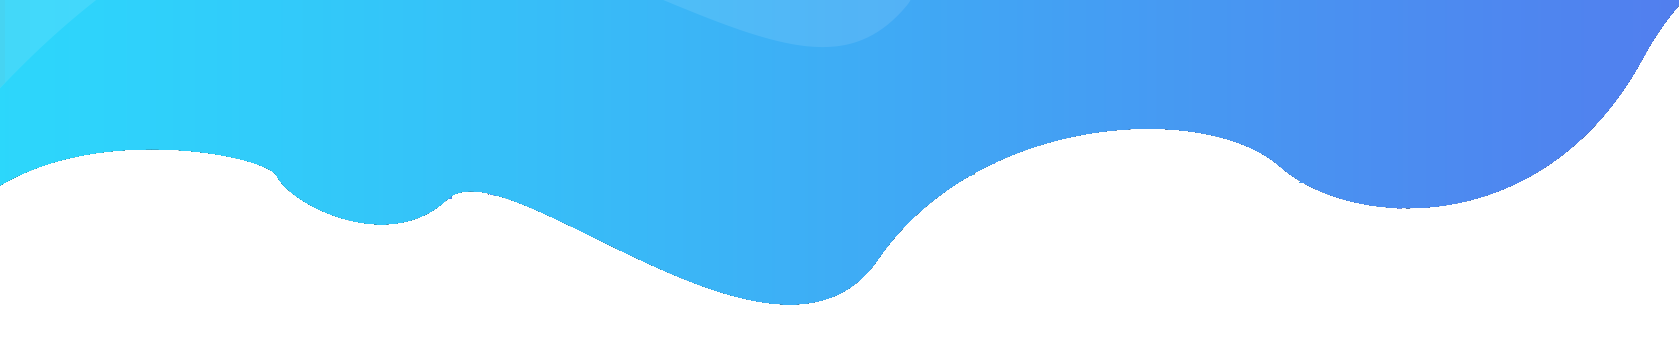
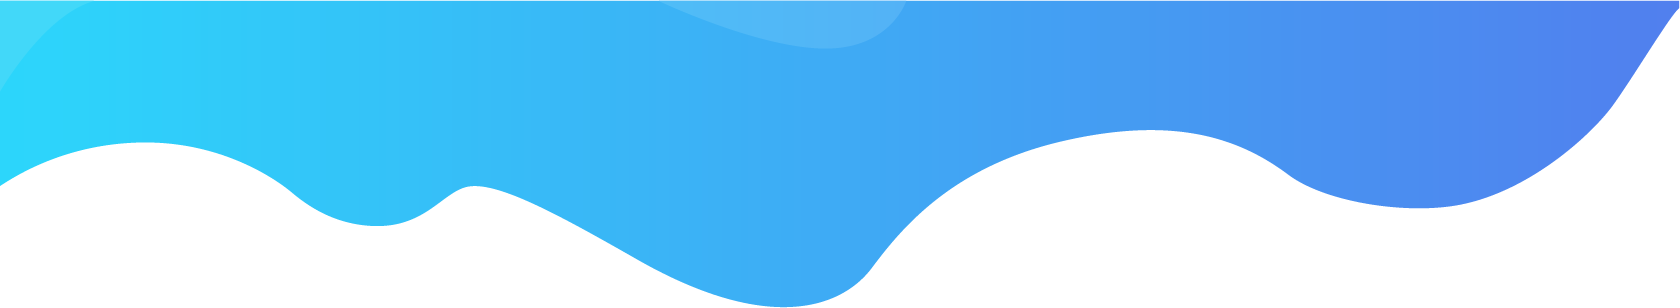
Fixed some bugs.

Changed region(s): [[0.0, 0.3214, 0.9601, 1.0], [0.0, 0.0, 1.0, 0.0877], [0.9601, 0.2922, 0.9911, 0.3214]]

diff --git a/Notiflex/wwwroot/vendors/svg/charts.js b/Notiflex/wwwroot/vendors/svg/charts.js
@@ -8,7 +8,7 @@ function ChartData(cityName,
     tempData1, tempData2, tempData3, tempData4, tempData5, tempData6, tempData7,
     cloudsData1, cloudsData2, cloudsData3, cloudsData4, cloudsData5, cloudsData6, cloudsData7,
     pressureData1, pressureData2, pressureData3, pressureData4, pressureData5, pressureData6, pressureData7,
-    humidity) {
+    humidityData1, humidityData2, humidityData3, humidityData4, humidityData5, humidityData6, humidityData7) {
 
     // eslint-disable-next-line no-unused-vars
     const lineChart = new Chart(document.getElementById('canvas-1'), {
@@ -17,9 +17,9 @@ function ChartData(cityName,
             labels: [timeRange1, timeRange2, timeRange3, timeRange4, timeRange5, timeRange6, timeRange7],
             datasets: [{
                 label: cityName,
-                backgroundColor: 'rgba(64, 45, 170, 0.2)',
-                borderColor: 'rgba(64, 45, 170, 1)',
-                pointBackgroundColor: 'rgba(64, 45, 170, 1)',
+                backgroundColor: 'rgba(37, 97, 221, 0.2)',
+                borderColor: 'rgba(37, 97, 221, 1)',
+                pointBackgroundColor: 'rgba(37, 97, 221, 1)',
                 pointBorderColor: '#fff',
                 data: [tempData1, tempData2, tempData3, tempData4, tempData5, tempData6, tempData7]
             }]
@@ -48,11 +48,29 @@ function ChartData(cityName,
         }
     });
 
+    const hubidityChart = new Chart(document.getElementById('canvas-3'), {
+        type: 'bar',
+        data: {
+            labels: [timeRange1, timeRange2, timeRange3, timeRange4, timeRange5, timeRange6, timeRange7],
+            datasets: [{
+                label: cityName,
+                backgroundColor: 'rgba(143, 193, 246, 0.5)',
+                borderColor: 'rgba(143, 193, 246, 0.8)',
+                highlightFill: 'rgba(143, 193, 246, 0.75)',
+                highlightStroke: 'rgba(143, 193, 246, 1)',
+                data: [humidityData1, humidityData2, humidityData3, humidityData4, humidityData5, humidityData6, humidityData7]
+            }]
+        },
+        options: {
+            responsive: true
+        }
+    });
+/*
     // eslint-disable-next-line no-unused-vars
-    const doughnutChart = new Chart(document.getElementById('canvas-3'), {
+    const doughnutChart = new Chart(document.getElementById('canvas-6'), {
         type: 'doughnut',
         data: {
-            labels: ['Humidity', '%'],
+            labels: ['Humidity %', ' '],
             datasets: [{
                 data: [humidity, 100 - humidity],
                 backgroundColor: ['#402DAA', '#4d4d4d'],
@@ -62,10 +80,10 @@ function ChartData(cityName,
         options: {
             responsive: true
         }
-    });
+    });*/
 
     // eslint-disable-next-line no-unused-vars
-    const linePressureChart = new Chart(document.getElementById('canvas-10'), {
+    const linePressureChart = new Chart(document.getElementById('canvas-4'), {
         type: 'line',
         data: {
             labels: [timeRange1, timeRange2, timeRange3, timeRange4, timeRange5, timeRange6, timeRange7],
@@ -85,7 +103,7 @@ function ChartData(cityName,
 }
 
 
-
+/*
 // eslint-disable-next-line no-unused-vars
 const radarChart = new Chart(document.getElementById('canvas-4'), {
   type: 'radar',
@@ -146,4 +164,4 @@ const polarAreaChart = new Chart(document.getElementById('canvas-6'), {
     responsive: true
   }
 });
-//# sourceMappingURL=charts.js.map
+//# sourceMappingURL=charts.js.map*/

diff --git a/Notiflex/wwwroot/css/dashboard/maindashboard.css b/Notiflex/wwwroot/css/dashboard/maindashboard.css
@@ -2,24 +2,31 @@
 	background-image: url(../../images/dashboardbackground3.png);
 	width: 100%;
 	background-position: center top;
-	background-size: 100% 400px;
+	margin-top: -1px;
+	background-size: 150% 300px;
 	background-repeat: no-repeat;
+}
+
+@media (max-width: 900px) {
+	#layoutWrapper {
+		background-size: 150% 250px;
+	}
 }
 
 @media (max-width: 767px) {
 	#layoutWrapper {
-		background-size: 200% 400px;
+		background-size: 200% 250px;
 	}
 }
 
 @media (max-width: 576px) {
 	#layoutWrapper {
-		background-size: 300% 300px;
+		background-size: 300% 200px;
 	}
 }
 
 @media (max-width: 400px) {
 	#layoutWrapper {
-		background-size: 300% 300px;
+		background-size: 500% 250px;
 	}
 }

diff --git a/Notiflex/wwwroot/css/triggers/createtrigger.css b/Notiflex/wwwroot/css/triggers/createtrigger.css
@@ -50,7 +50,38 @@
     list-style-type: none;
 }
 
+.no-tirgger-img {
+    width: 400px;
+    height: auto
+}
+
+.no-trigger-ctr {
+    display: block;
+    margin-top: 100px;
+}
+
+.no-trigger-box {
+    text-align: center;
+    display: block;
+    font-size: 25px;
+}
+
+.create-trigger {
+    color: rgb(77, 137, 240);
+    text-decoration: none;
+}
+
+    .create-trigger:hover {
+        color: rgb(77, 137, 240);
+        text-decoration: underline;
+    }
+
 @media (max-width: 767px) {
+    .no-tirgger-img {
+        width: 300px;
+        height: auto
+    }
+
     .inpt-box {
         width: 500px;
         padding: 10px;

diff --git a/Notiflex/Areas/Main/Controllers/DashboardController.cs b/Notiflex/Areas/Main/Controllers/DashboardController.cs
@@ -76,7 +76,22 @@ namespace Notiflex.Areas.Main.Controllers
             {
                 throw new ArgumentException("UserId null.");
             }
-            List<WeatherCardViewModel> model = _mapper.Map<List<WeatherCardViewModel>>(await _modelConfigurer.ConfigureForecastReport(value ?? string.Empty));
+
+            var user = await _accountService.GetUserData(userId ?? string.Empty);
+
+            List<WeatherCardViewModel> model = new();
+
+            try
+            {
+                model = _mapper.Map<List<WeatherCardViewModel>>(await _modelConfigurer.ConfigureForecastReport(value ?? string.Empty));
+            }
+            catch(ArgumentException ex)
+            {
+                model = _mapper.Map<List<WeatherCardViewModel>>(await _modelConfigurer.ConfigureForecastReport(user.HomeTown));
+
+                TempData["StatusMessageDanger"] = ex.Message;
+            }
+
             return View(model);
         }
 
@@ -113,8 +128,26 @@ namespace Notiflex.Areas.Main.Controllers
                 hourUTC = await _triggerService.GetHourUTC(user.HomeTown, model.Hour);
             }
 
+            if(model.DaySchedule.Select(a => a.Value).Where(a => a == true).ToList().Count <= 0)
+            {
+                TempData["StatusMessageDanger"] = "Invalid Data!";
+
+                return RedirectToAction(nameof(CreateTrigger));
+            }
+
             DayOfWeek[] daysSchedule = model.DaySchedule.Where(a => a.Value == true).Select(a => a.Key).ToArray();
-            await _triggerService.CreateWeatherReportTriggerAsync(userId, model.Name,  model.City, user.TelegramChatId, new TimeOfDay(hourUTC, int.Parse(model.Minutes)), daysSchedule);
+
+            try
+            {
+                await _triggerService.CreateWeatherReportTriggerAsync(userId, model.Name, model.City, user.TelegramChatId, new TimeOfDay(hourUTC, int.Parse(model.Minutes)), daysSchedule);
+            }
+            catch (ArgumentException ex)
+            {
+                TempData["StatusMessageDanger"] = ex.Message;
+
+                return RedirectToAction(nameof(CreateTrigger));
+            }
+
             return RedirectToAction("Triggers", "Dashboard", "Main");
         }
 
@@ -140,7 +173,8 @@ namespace Notiflex.Areas.Main.Controllers
                 TimeRanges = dashboardData.TimeRanges,
                 TempData = dashboardData.TempData,
                 CloudsData = dashboardData.CloudsData,
-                PressureData = dashboardData.PressureData
+                PressureData = dashboardData.PressureData,
+                HumidityData = dashboardData.HumidityData
             };
 
             return View(model);

diff --git a/Notiflex.Core/Services/AccountServices/DashboardService.cs b/Notiflex.Core/Services/AccountServices/DashboardService.cs
@@ -56,6 +56,12 @@ namespace Notiflex.Core.Services.AccountServices
                 pressureDataList.Add(weatherCard[i].Pressure);
             }
 
+            List<string> humidityDataList = new();
+            for (int i = 0; i < 7; i++)
+            {
+                humidityDataList.Add(weatherCard[i].Humidity);
+            }
+
             var model = new DashboardDto()
             {
                 DashboardWeatherCard = weatherCard,
@@ -66,7 +72,8 @@ namespace Notiflex.Core.Services.AccountServices
                 TimeRanges = timesList,
                 TempData = temperaturesList,
                 CloudsData = cloudDataList,
-                PressureData = pressureDataList
+                PressureData = pressureDataList,
+                HumidityData = humidityDataList
             };
 
             return model;

diff --git a/Notiflex.Core/Services/BOtServices/ModelConfigurer.cs b/Notiflex.Core/Services/BOtServices/ModelConfigurer.cs
@@ -5,6 +5,7 @@ using Notiflex.Core.Models.ForecastApiModel;
 using Notiflex.Core.Services.Contracts;
 using System;
 using System.Collections.Generic;
+using System.Diagnostics;
 using System.Linq;
 using System.Text;
 using System.Threading.Tasks;
@@ -43,6 +44,11 @@ namespace Notiflex.Core.Services.BOtServices
 
         public async Task<List<WeatherCardDto>> ConfigureForecastReport(string name)
         {
+            if (string.IsNullOrEmpty(name) || (await ConvertNameToCoordinates(name))[2] == null)
+            {
+                throw new ArgumentException("Invalid city name!");
+            }
+
             List<string> coors = await ConvertNameToCoordinates(name);
 
             string lat = coors[0];

diff --git a/Notiflex.Core/Services/SchedulerServices/TriggerService.cs b/Notiflex.Core/Services/SchedulerServices/TriggerService.cs
@@ -33,6 +33,16 @@ namespace Notiflex.Core.Services.SchedulerServices
 
         public async Task CreateWeatherReportTriggerAsync(string userId, string triggerName, string city, string telegramChatId, TimeOfDay startingTime, DayOfWeek[] daysOfWeek)
         {
+            if ((await _modelConfigurer.ConvertNameToCoordinates(city))[2] == null)
+            {
+                throw new ArgumentException("Invalid city name!");
+            }
+
+            if(userId == null || telegramChatId == null)
+            {
+                throw new ArgumentException("Invalid model!");
+            }
+
             string identity = Guid.NewGuid().ToString();
 
             int minutes;

diff --git a/Notiflex/Areas/Home/Controllers/AccountController.cs b/Notiflex/Areas/Home/Controllers/AccountController.cs
@@ -228,7 +228,6 @@ namespace Notiflex.Areas.Home.Controllers
         {
             if (!ModelState.IsValid)
             {
-                //TempData
                 return RedirectToAction("Login", "Account");
             }
             await _accountService.ResetPasswordAsync(model.Email, model.Token, model.Password);
@@ -245,8 +244,10 @@ namespace Notiflex.Areas.Home.Controllers
             {
                 return RedirectToAction("Profile", "Dashboard", new { area = "Main" });
             }
+
             ViewData["id"] = id;
             ViewData["photo_url"] = photo_url;
+
             return PartialView();
         }
 

diff --git a/Notiflex.Core/Models/DTOs/DashboardDto.cs b/Notiflex.Core/Models/DTOs/DashboardDto.cs
@@ -19,5 +19,7 @@ namespace Notiflex.Core.Models.DTOs
         public List<string> CloudsData { get; set; } = null!;
 
         public List<string> PressureData { get; set; } = null!;
+
+        public List<string> HumidityData { get; set; } = null!;
     }
 }

diff --git a/Notiflex/ViewModels/DashboardViewModel.cs b/Notiflex/ViewModels/DashboardViewModel.cs
@@ -20,5 +20,7 @@ namespace Notiflex.ViewModels
         public List<string> CloudsData { get; set; } = null!;
 
         public List<string> PressureData { get; set; } = null!;
+
+        public List<string> HumidityData { get; set; } = null!;
     }
 }
